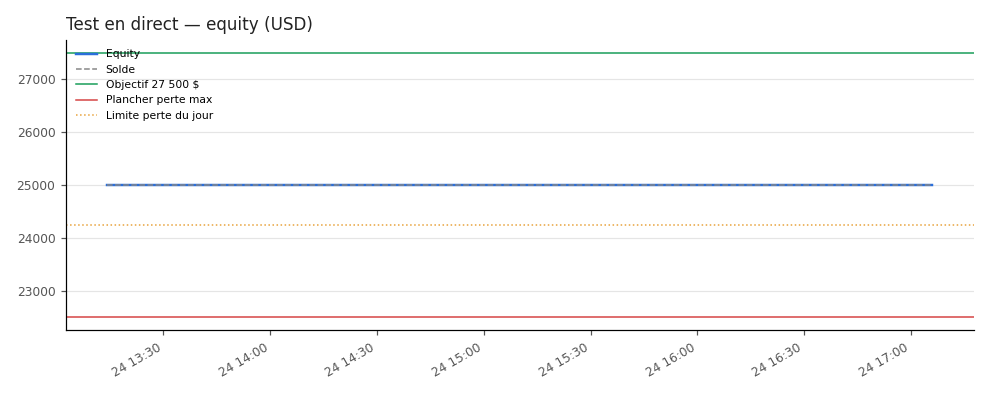
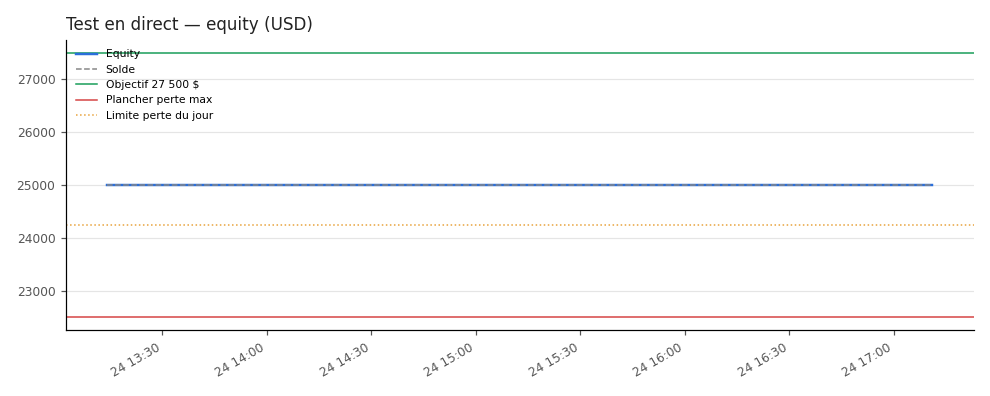
sim: 2026-11-24 17:11 UTC

diff --git a/RAPPORT.md b/RAPPORT.md
@@ -1,6 +1,6 @@
 # RAPPORT — Simulation FTMO Challenge 1-Step 25 000 $ (paper trading)
 
-> **EN COURS** — solde 25 000.00 $ — perte du jour 0.00 $ / 750 $ — distance au plancher 2 500.00 $ — mis à jour 2026-11-24T17:06 UTC
+> **EN COURS** — solde 25 000.00 $ — perte du jour 0.00 $ / 750 $ — distance au plancher 2 500.00 $ — mis à jour 2026-11-24T17:11 UTC
 
 ⚠ Simulation uniquement : aucun argent réel, aucun compte de courtage ni FTMO connecté.
 
@@ -32,7 +32,7 @@ Le test en direct d'une semaine (5 jours de marché, section 2) ne changera pas 
 ## 2. Test en direct
 
 - Stratégie active : `aggressive_v1` — premier lancement : 2026-11-24T13:14:13.465556+00:00 UTC — fin du test : **2026-12-01** (heure de Prague)
-- Dernière exécution : 2026-11-24T17:06:00.933178+00:00 UTC
+- Dernière exécution : 2026-11-24T17:11:00.917686+00:00 UTC
 - Solde : **25 000.00 $** — equity : 25 000.00 $ — plancher perte max : 22 500.00 $ — plus haut solde de fin de journée : 25 000.00 $
 
 ![Courbe d'equity live](docs/equity_live.png)
